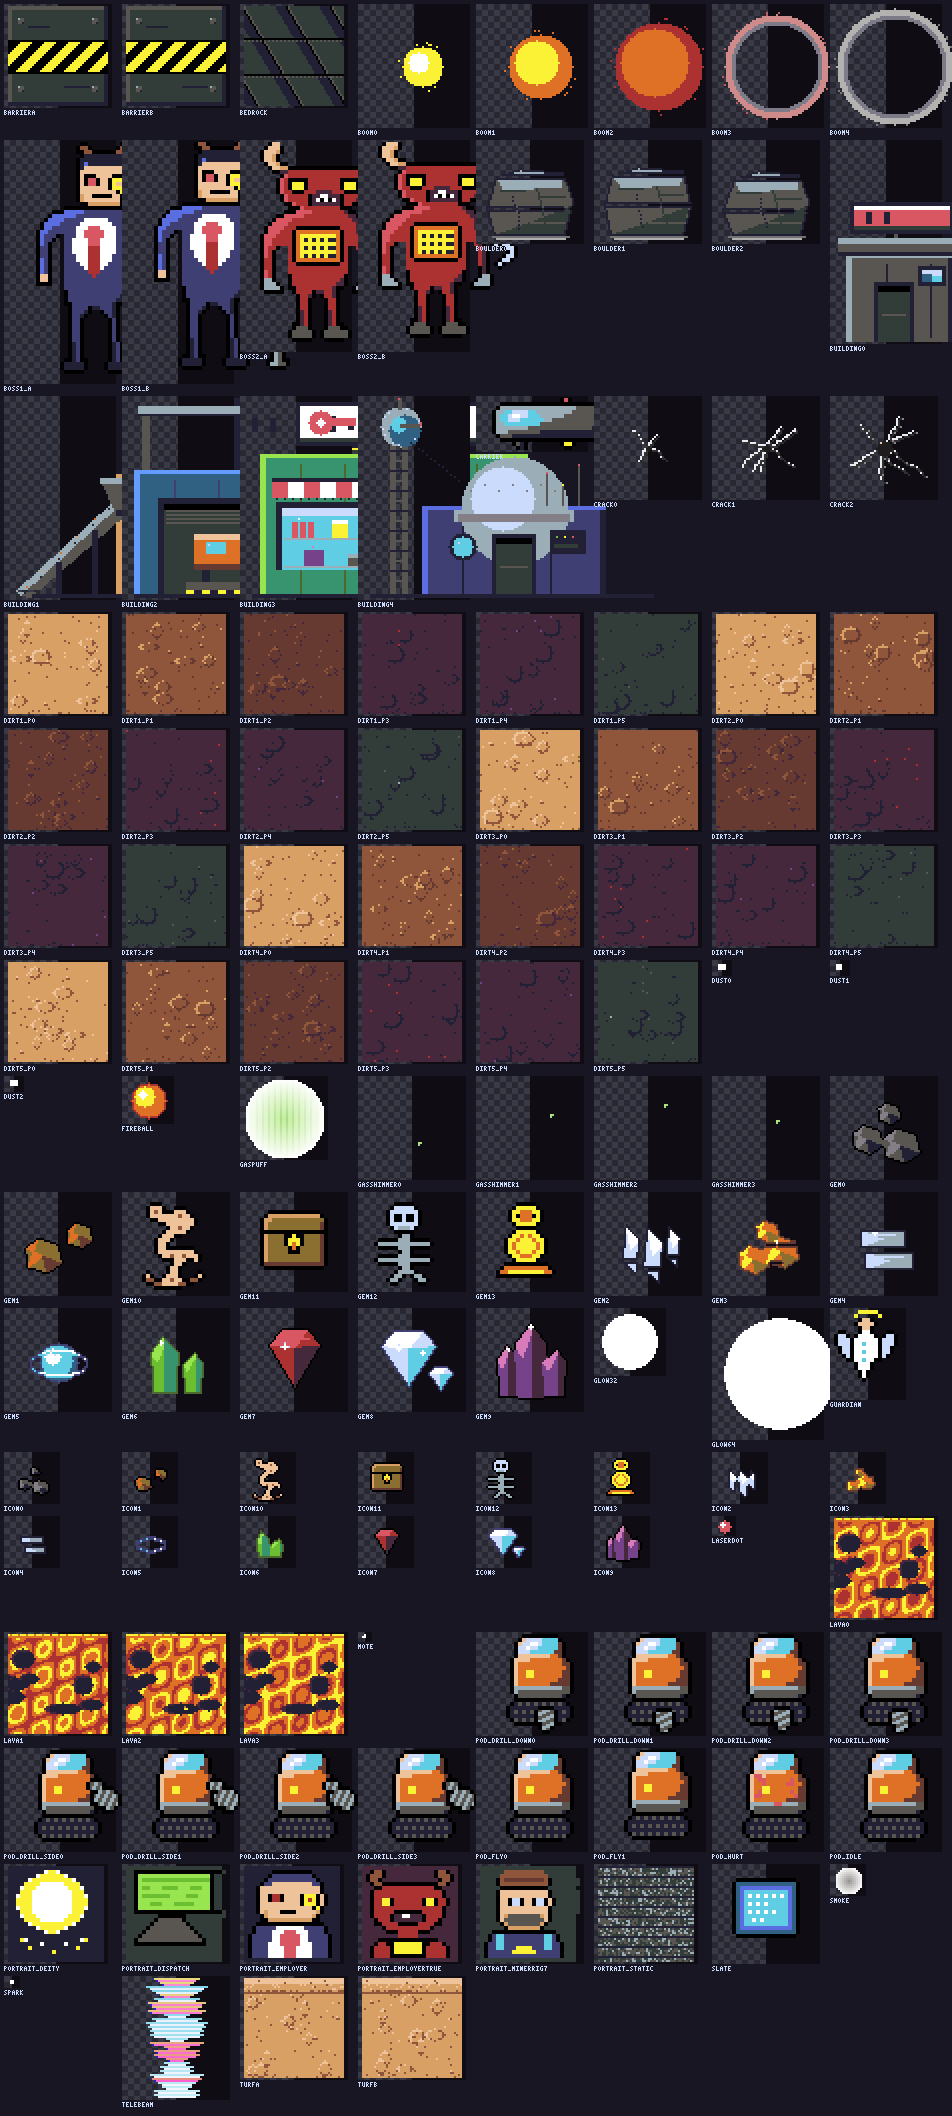
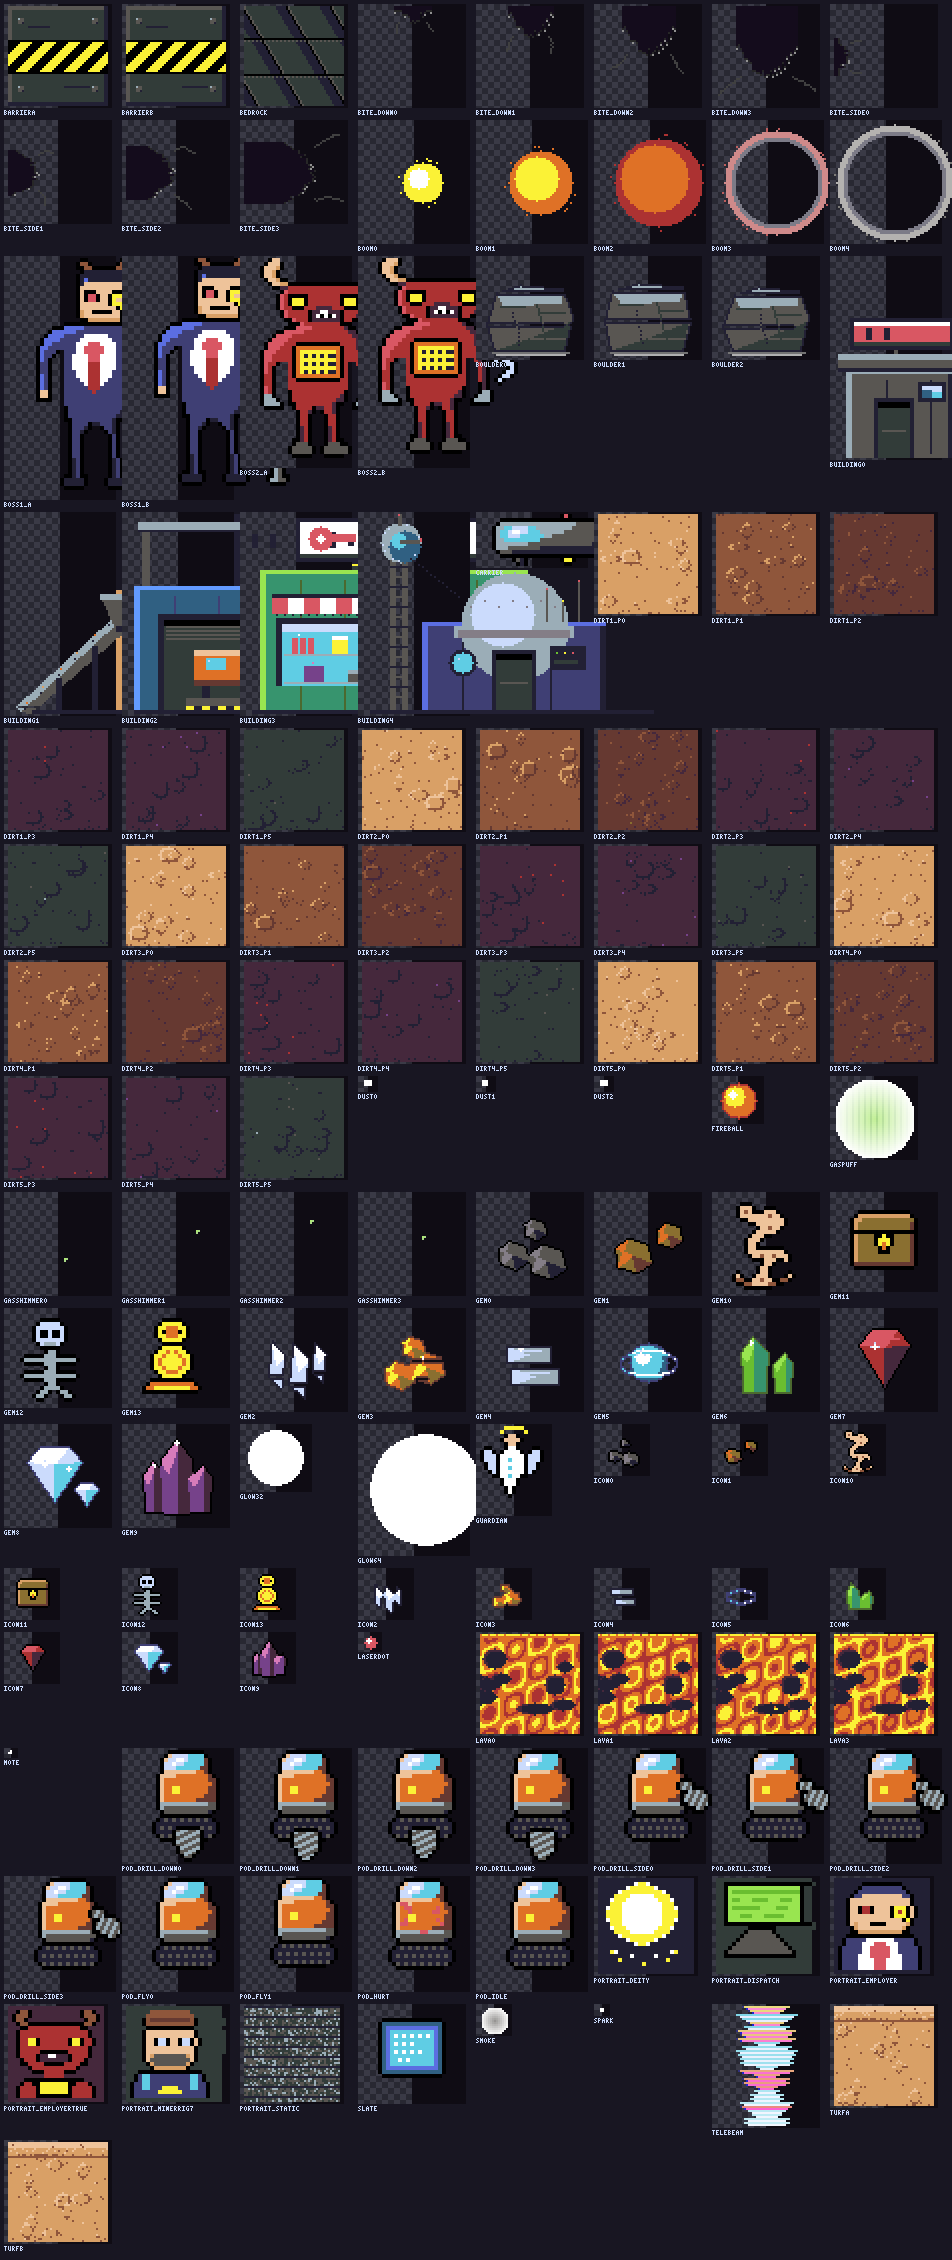
Improve animation

diff --git a/src/game/scenes/GameScene.ts b/src/game/scenes/GameScene.ts
@@ -180,8 +180,8 @@ export class GameScene extends Phaser.Scene {
     this.pod.create();
     this.boss = new BossView(this, s);
 
-    // Crack overlay for the tile currently being drilled (above terrain, below the pod).
-    this.crackSprite = this.add.sprite(0, 0, 'atlas', 'crack0').setDepth(6).setVisible(false);
+    // Hole-bite overlay for the tile currently being drilled (above terrain, below the pod).
+    this.crackSprite = this.add.sprite(0, 0, 'atlas', 'bite_down0').setDepth(6).setVisible(false);
 
     // --- glows ---
     this.headGlow = this.add
@@ -604,14 +604,16 @@ export class GameScene extends Phaser.Scene {
     this.thrustGlow.setAlpha(inputUp ? 0.35 + (this.fxFull ? Math.random() * 0.15 : 0) : 0);
     this.audio.setLoops(s.pod.mode === 'dig', inputUp);
 
-    // --- drilling feedback: crack overlay, straining loop pitch, chip spray ---
+    // --- drilling feedback: hole being carved, straining loop pitch, chip spray ---
     const job = s.pod.drilling;
     if (job && !job.broken) {
-      // Cracks spread until the tile gives way at digBreakAtPx.
-      const crack = Math.min(1, job.traveledPx / PHYSICS.digBreakAtPx);
+      // The notch eats into the tile from the drilled face until it gives way
+      // at digBreakAtPx (top entry leaves the block reading as a U).
+      const bite = Math.min(1, job.traveledPx / PHYSICS.digBreakAtPx);
       this.crackSprite
         .setPosition((job.targetX + 0.5) * TILE_PX, (job.targetY + 0.5) * TILE_PX)
-        .setFrame(`crack${Math.min(2, Math.floor(crack * 3))}`)
+        .setFrame(`bite_${job.dir === 'down' ? 'down' : 'side'}${Math.min(3, Math.floor(bite * 4))}`)
+        .setFlipX(job.dir === 'left') // side frames enter from the left face
         .setVisible(true);
     } else {
       this.crackSprite.setVisible(false);

diff --git a/src/game/render/PodView.ts b/src/game/render/PodView.ts
@@ -13,6 +13,9 @@ export class PodView {
 
   create(): void {
     this.sprite = this.scene.add.sprite(this.state.pod.x, this.state.pod.y, 'atlas', 'pod_idle');
+    // Frames are 56px tall but the body occupies rows 0-49 (the down-drill auger
+    // hangs below) — anchor so the 50px body stays centred on the collision box.
+    this.sprite.setOrigin(0.5, 25 / 56);
     this.sprite.setDepth(10);
   }
 